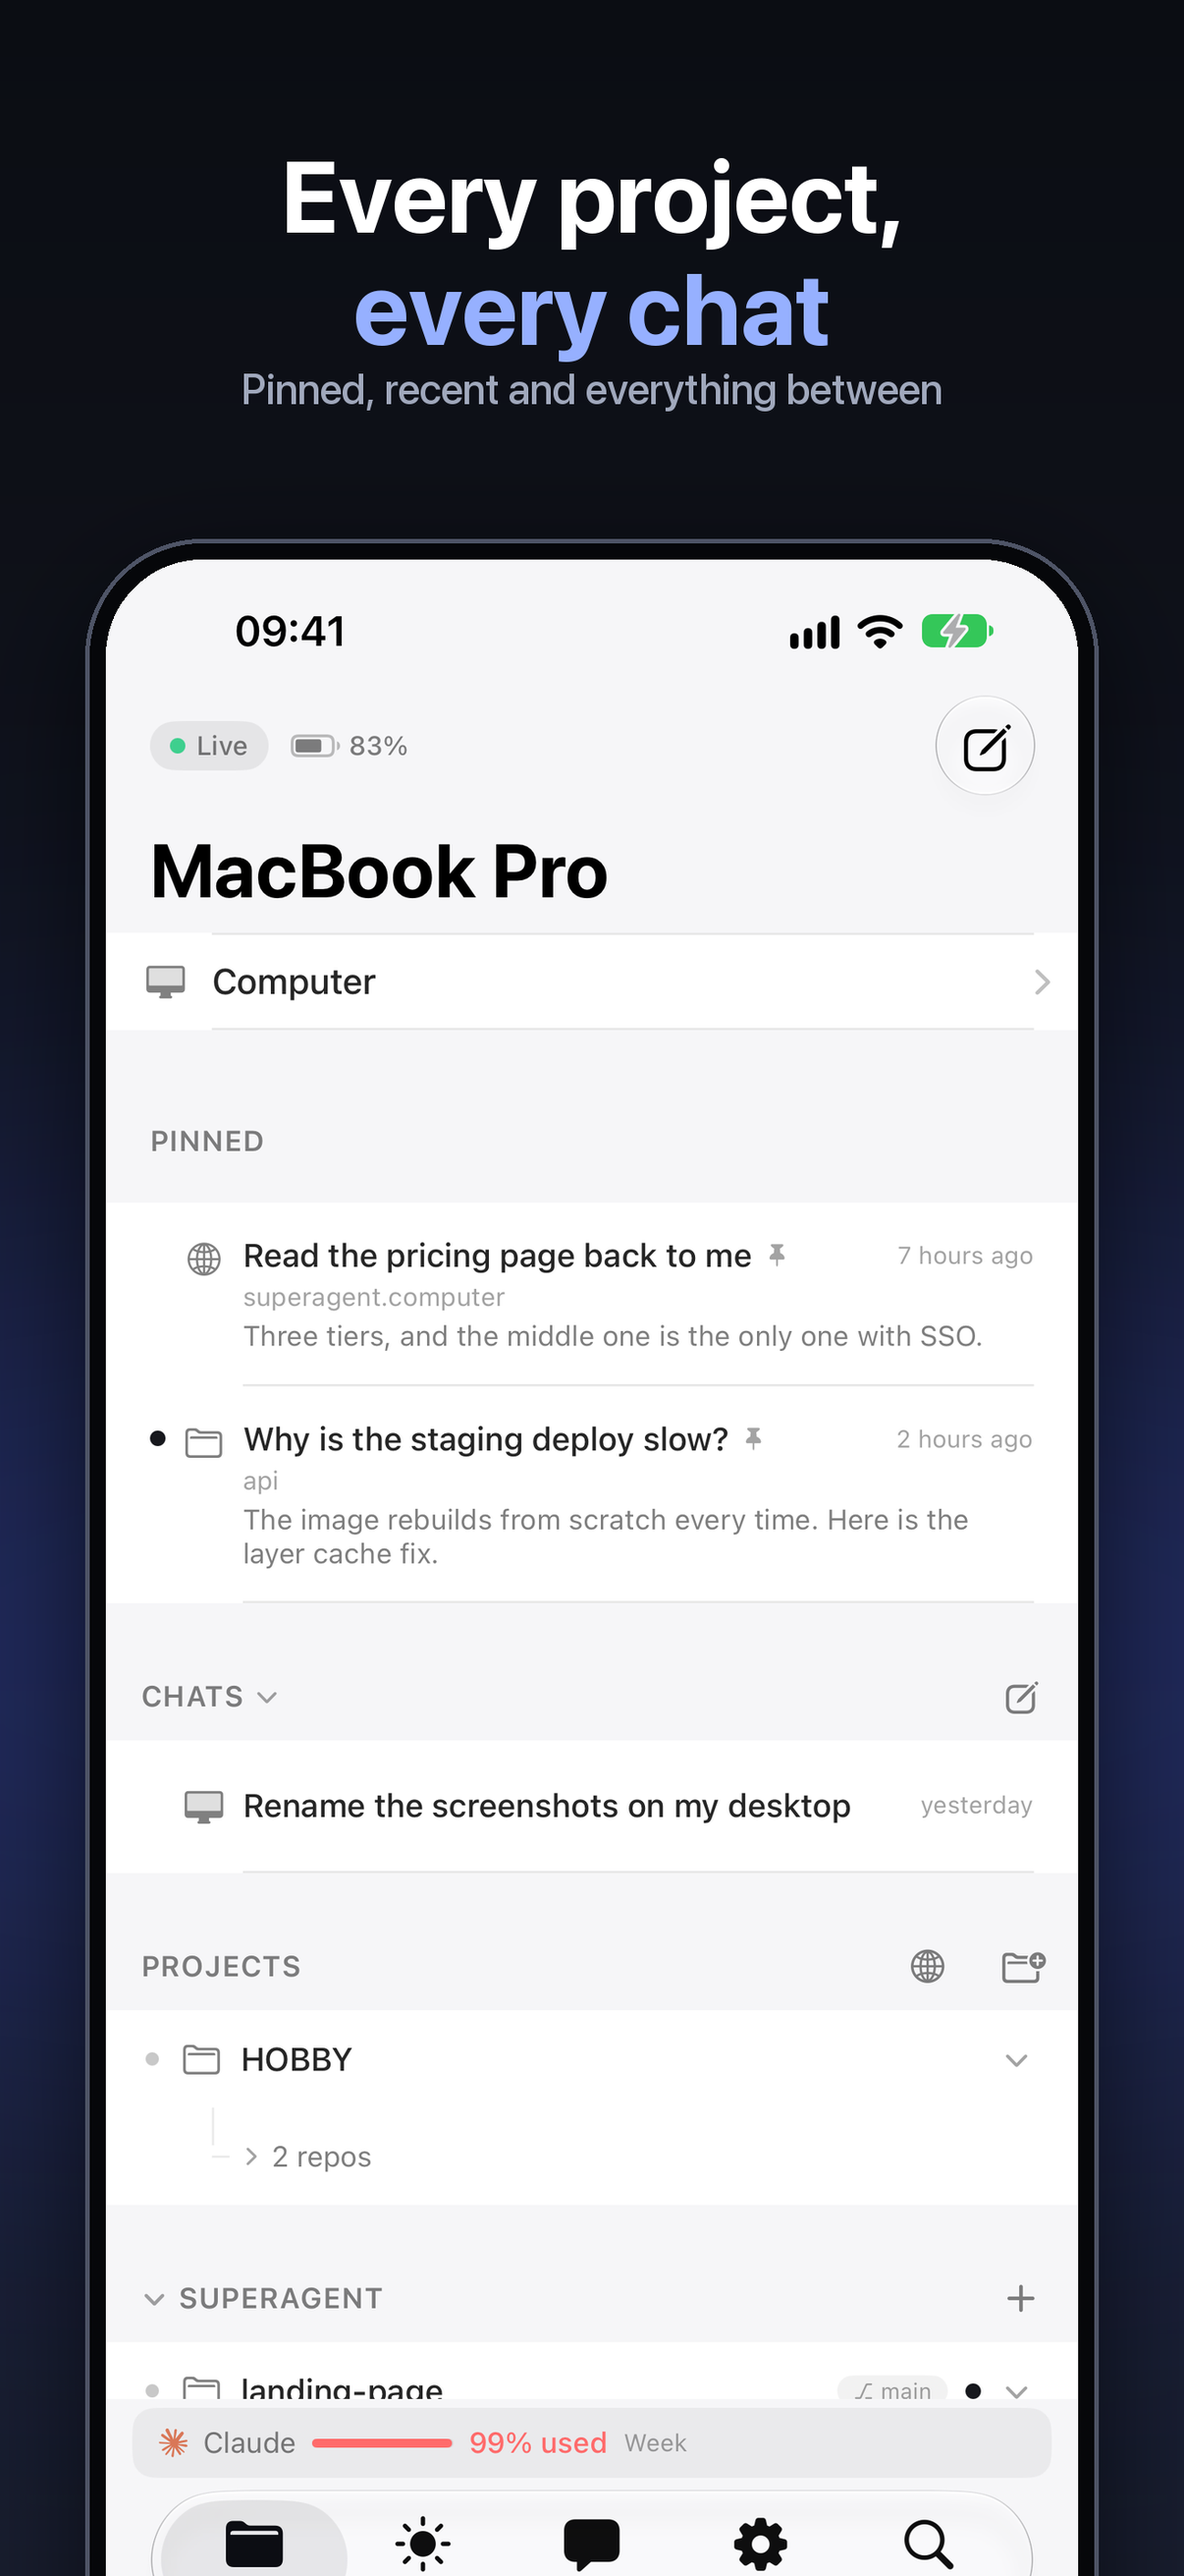
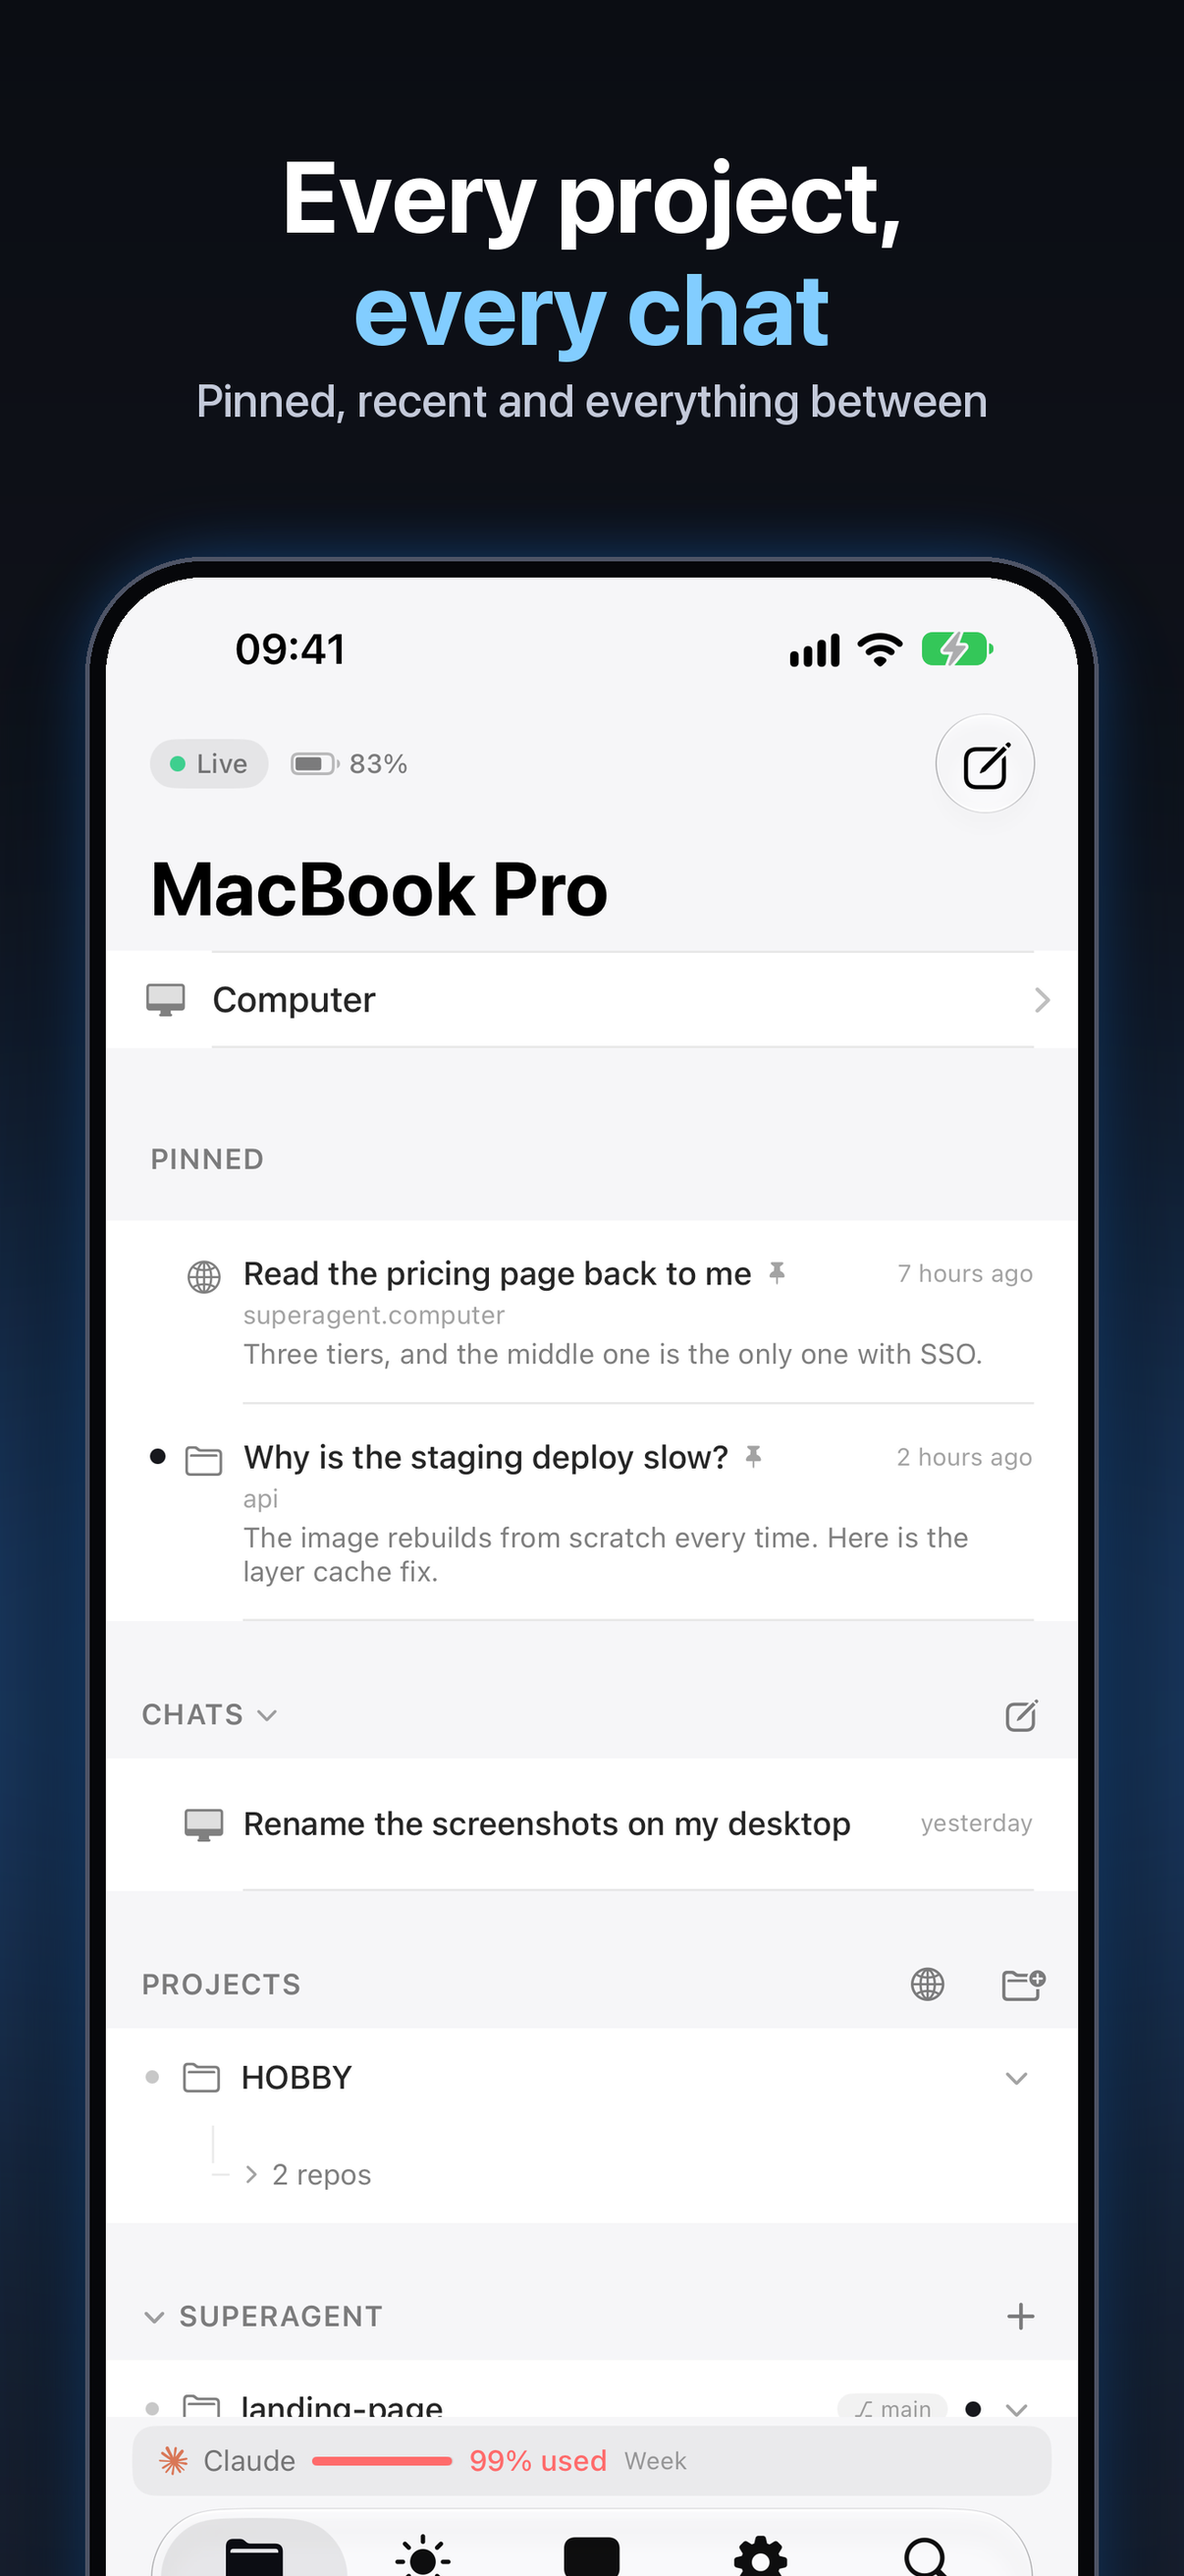
App Store screenshots: a colour per screen, glowing rims, airier subtitles

diff --git a/docs/appstore/store_style.py b/docs/appstore/store_style.py
@@ -14,7 +14,7 @@ def font(size, weight="Bold"):
     return f
 
 
-def background(w, h, glow_at=None, glow_r=None):
+def background(w, h, glow_at=None, glow_r=None, glow=None):
     """Graphite, a little lighter toward the bottom, with a soft blue glow behind the phone."""
     top, bottom = (11, 13, 19), (24, 29, 42)
     img = Image.new("RGB", (w, h))
@@ -27,7 +27,7 @@ def background(w, h, glow_at=None, glow_r=None):
         gx, gy = glow_at
         r = glow_r or round(w * 0.6)
         blob = Image.new("RGBA", (w, h), (0, 0, 0, 0))
-        ImageDraw.Draw(blob).ellipse([gx - r, gy - r, gx + r, gy + r], fill=GLOW + (95,))
+        ImageDraw.Draw(blob).ellipse([gx - r, gy - r, gx + r, gy + r], fill=(glow or GLOW) + (105,))
         img.alpha_composite(blob.filter(ImageFilter.GaussianBlur(round(r * 0.55))))
     return img
 
@@ -53,8 +53,12 @@ def framed_phone(path, width, bezel=None):
     return card, outer_r
 
 
-def paste_phone(canvas, path, x, y, width, shadow=True):
+def paste_phone(canvas, path, x, y, width, shadow=True, halo=None):
     card, r = framed_phone(path, width)
+    if halo:
+        hl = Image.new("RGBA", canvas.size, (0, 0, 0, 0))
+        ImageDraw.Draw(hl).rounded_rectangle([x - 14, y - 14, x + card.width + 14, y + card.height + 14], r + 14, fill=halo + (170,))
+        canvas.alpha_composite(hl.filter(ImageFilter.GaussianBlur(46)))
     if shadow:
         sh = Image.new("RGBA", canvas.size, (0, 0, 0, 0))
         ImageDraw.Draw(sh).rounded_rectangle([x, y + 40, x + card.width, y + card.height + 40], r, fill=(0, 0, 0, 150))
@@ -63,16 +67,16 @@ def paste_phone(canvas, path, x, y, width, shadow=True):
     return card
 
 
-def headline(canvas, title, sub, y, size, sub_size=None, align="center", x=None):
+def headline(canvas, title, sub, y, size, sub_size=None, align="center", x=None, accent=None):
     """Title lines; a word between *stars* is the accent colour. Returns the y below the block."""
     d = ImageDraw.Draw(canvas)
     big = font(size)
-    small = font(sub_size or round(size * 0.42), "Medium")
+    small = font(sub_size or round(size * 0.46), "Medium")
     w = canvas.width
     gap = round(size * 1.12)
     for line in title.split("\n"):
         parts = line.split("*")
-        segs = [(t, ACCENT if i % 2 else INK) for i, t in enumerate(parts) if t]
+        segs = [(t, (accent or ACCENT) if i % 2 else INK) for i, t in enumerate(parts) if t]
         total = sum(d.textlength(t, font=big) for t, _ in segs)
         cx = x if (align == "left" and x is not None) else (w - total) / 2
         for t, c in segs:
@@ -82,6 +86,6 @@ def headline(canvas, title, sub, y, size, sub_size=None, align="center", x=None)
     if sub:
         tw = d.textlength(sub, font=small)
         sx = x if (align == "left" and x is not None) else (w - tw) / 2
-        d.text((sx, y + round(size * 0.04)), sub, font=small, fill=MUTED)
-        y += round((sub_size or size * 0.42) * 1.5)
+        d.text((sx, y + round(size * 0.12)), sub, font=small, fill=(196, 202, 218))
+        y += round((sub_size or size * 0.42) * 1.6)
     return y

diff --git a/docs/appstore/make-screenshots.py b/docs/appstore/make-screenshots.py
@@ -15,17 +15,21 @@ from pathlib import Path
 from PIL import Image
 from store_style import background, headline, paste_phone
 
+# One colour per screen: (glow, accent word). The strip reads as a set, not a copy.
+THEMES = [((70, 96, 255), (150, 176, 255)), ((140, 80, 255), (196, 160, 255)), ((30, 170, 140), (120, 232, 200)),
+          ((235, 120, 60), (255, 184, 128)), ((220, 70, 140), (255, 154, 200)), ((40, 140, 255), (130, 205, 255))]
+
 HERE = Path(__file__).parent
 RAW = HERE / "screenshots"
 OUT = RAW / "store"
 
 
-def compose(raw, title, sub, canvas, phone_w, name, title_size, top_pad, phone_top):
+def compose(raw, title, sub, canvas, phone_w, name, title_size, top_pad, phone_top, theme):
     w, h = canvas
-    img = background(w, h, glow_at=(w // 2, phone_top + round(phone_w * 1.1)), glow_r=round(w * 0.62))
-    headline(img, title, sub, top_pad, title_size)
+    img = background(w, h, glow_at=(w // 2, phone_top + round(phone_w * 1.1)), glow_r=round(w * 0.62), glow=theme[0])
+    headline(img, title, sub, top_pad, title_size, accent=theme[1])
     # The phone runs off the bottom edge: bigger on screen, and it reads as a real device in hand.
-    paste_phone(img, RAW / raw, (w - phone_w) // 2, phone_top, phone_w)
+    paste_phone(img, RAW / raw, (w - phone_w) // 2, phone_top, phone_w, halo=theme[0])
     OUT.mkdir(parents=True, exist_ok=True)
     img.convert("RGB").save(OUT / name, optimize=True)
 
@@ -45,10 +49,10 @@ IPAD = [
 ]
 
 if __name__ == "__main__":
-    for raw, title, sub, name in IPHONE:
-        compose(raw, title.replace("\\\n", "\n"), sub, (1320, 2868), 1130, name, 112, 150, 600)
+    for i, (raw, title, sub, name) in enumerate(IPHONE):
+        compose(raw, title, sub, (1320, 2868), 1130, name, 112, 150, 620, THEMES[i])
     for raw, title, sub, name in IPAD:
-        compose(raw, title.replace("\\\n", "\n"), sub, (2064, 2752), 1500, name, 168, 190, 820)
+        compose(raw, title, sub, (2064, 2752), 1500, name, 168, 190, 840, THEMES[{'ipad-1-chat.png': 0, 'ipad-2-approve.png': 2, 'ipad-3-remote.png': 4}[name]])
     small = OUT / "iphone-6.3"
     small.mkdir(parents=True, exist_ok=True)
     for _, _, _, name in IPHONE:
